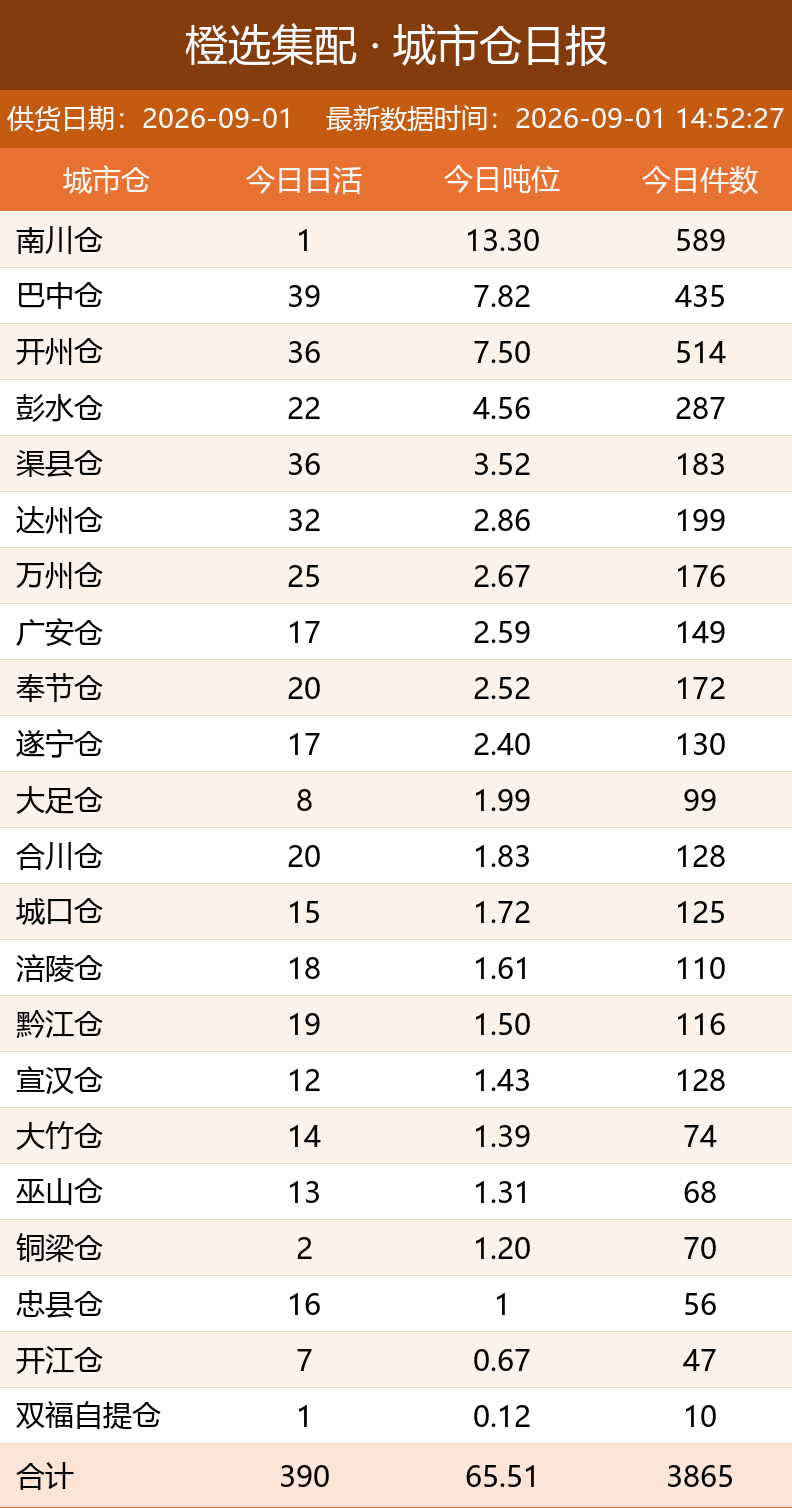
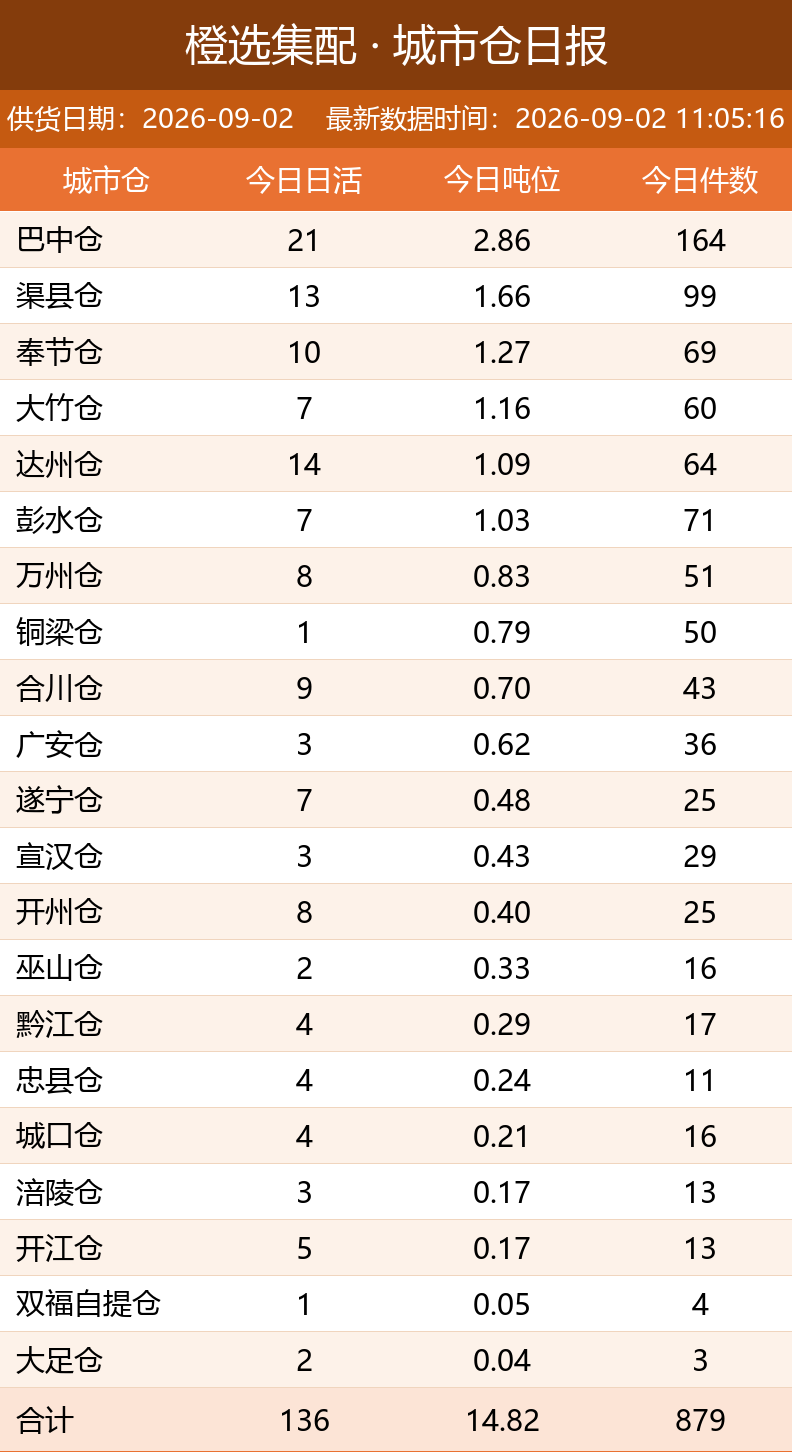
自动更新日报图片

Changed region(s): [[0.0, 0.0, 1.0, 0.9917], [0.3636, 0.9298, 0.4242, 0.9917]]

diff --git a/index.html b/index.html
@@ -11,7 +11,7 @@ img { max-width: 100%; border: 1px solid #e5e5e5; margin-bottom: 24px; display: 
 </style>
 </head>
 <body>
-<h1>橙选集配日报图片（20260901_145232）</h1>
+<h1>橙选集配日报图片（20260902_110522）</h1>
 <img src="bd_latest.png" alt="BD 日报">
 <img src="wh_latest.png" alt="城市仓日报">
 <img src="zs_latest.png" alt="招商日报">
